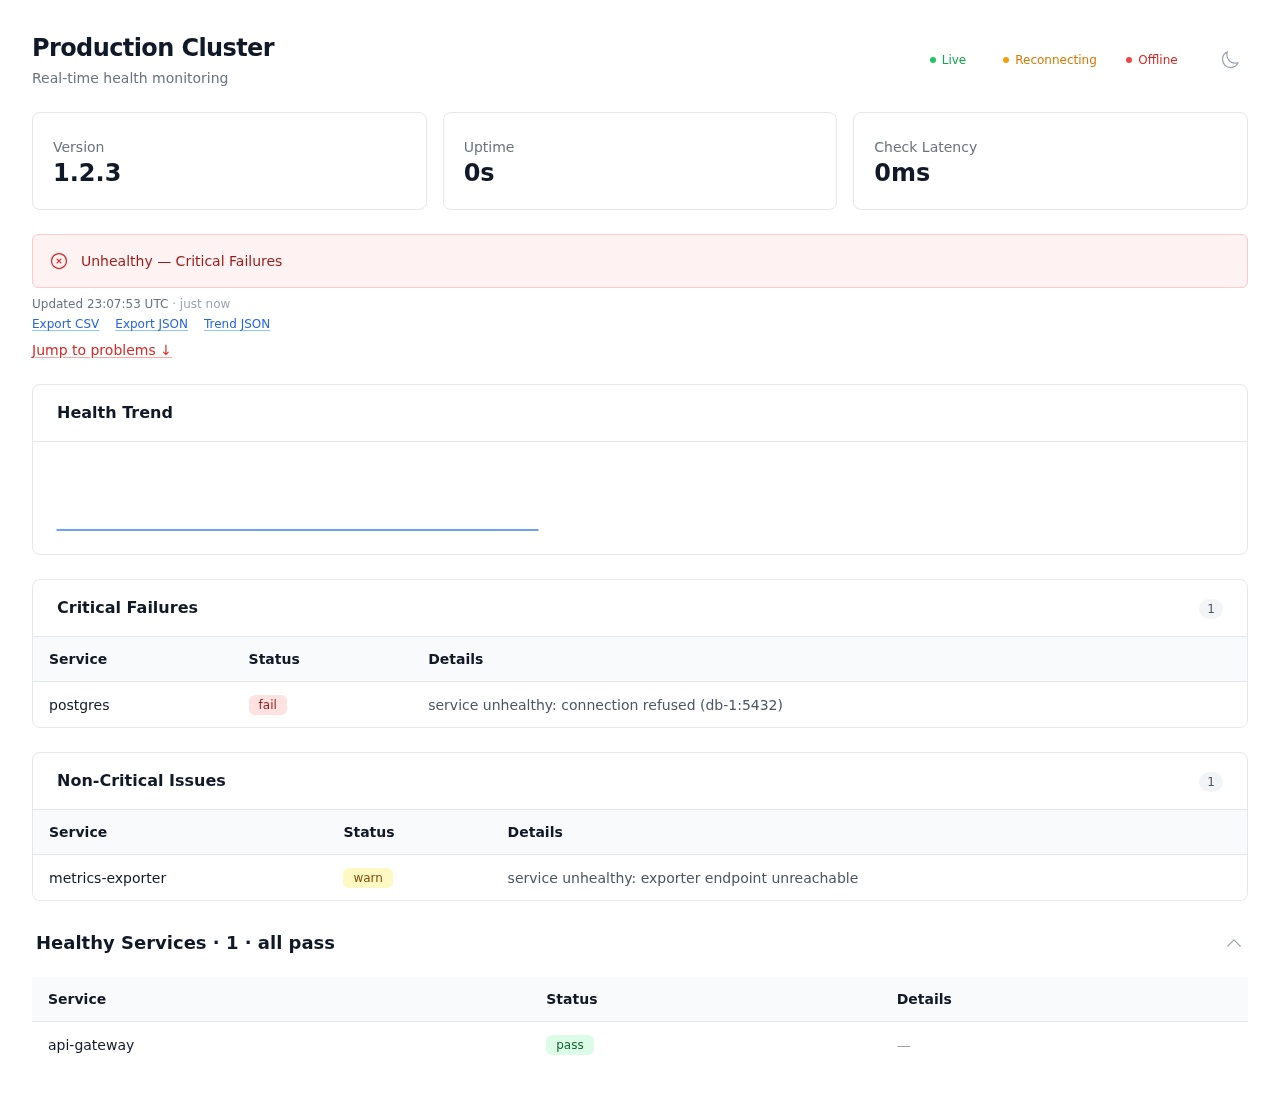
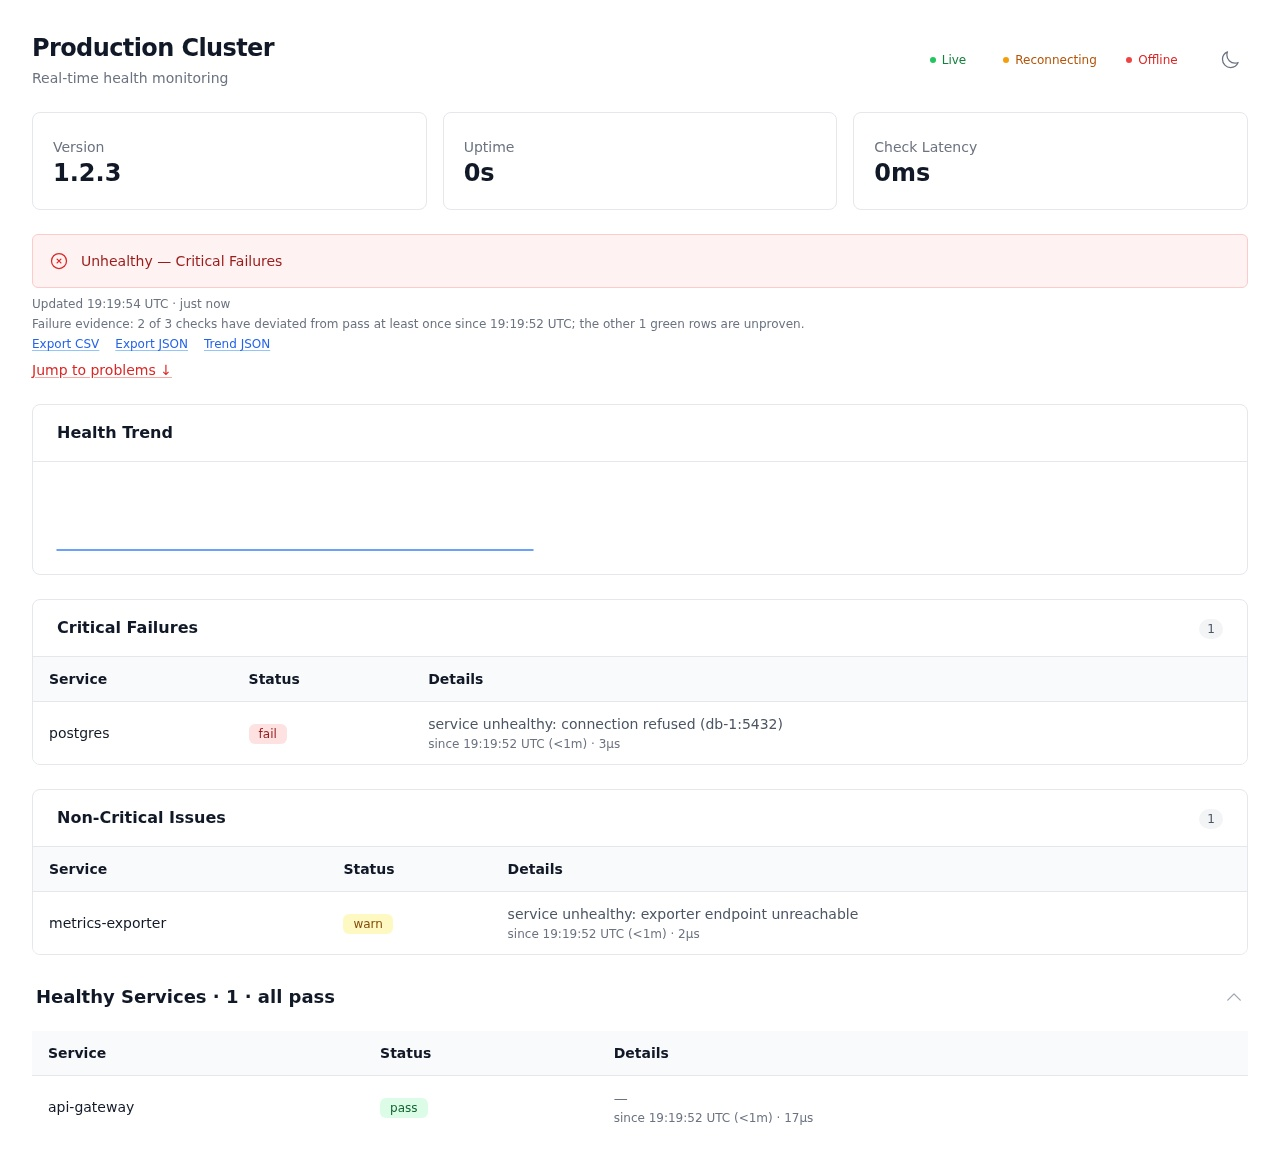
chore: auto-commit 2 changed file(s) (heuristic)

diff --git a/AGENTS.md b/AGENTS.md
@@ -114,7 +114,8 @@ layout) and `docs/adr/0002-error-sentinel-family.md` (pusher-state sentinels).
 - **SSE reconnection via retry field** — `WithRetryInterval(d)` sets the SSE `retry` field on every event, telling the browser how long to wait before reconnecting. The handler always sends current state on connect, so reconnecting clients immediately see the latest health — no event replay needed.
 - **Sub-path mounting via WithBasePath** — `WithBasePath("/admin")` prefixes all routes in `Config.Routes`. Combined with `RegisterRoutes(mux)` reading from `Config`, this ensures the HTML-referenced SSE URL always matches the registered handler.
 - **`LastUpdatedTime`/age is HTML-only by design** — the JSON health response stays byte-stable with go-health's own probe handlers (kubelets and scrapers diff payloads); freshness rides the trend/export endpoints instead. Revisit only if a JSON consumer asks for it.
-- **Greens are observations, not verification (evidence strip)** — per the health-washing thesis (samber-linter README §1: a dashboard's value equals the fraction of its checks that can actually fail), `evidenceLog` records per-check non-pass observations on every pusher tick (before change detection, like the trend ring), and the UI separates proven greens from unproven ones: a truth strip under the Updated stamp reports "X of N checks deviated from pass since <start>" (zero-proven is the explicit health-washing warning), and pass badges carry native `title` tooltips (unproven greens disclose, proven greens cite their last non-pass). The log cannot know WHY a check passes (go-health v0.2.0 added `Check.Since`/`DurationNanos`, but a Check still carries no failure reason beyond `Error`) — it claims only what is observable. Window = pusher lifetime (resets on restart, stated in the tooltip); zero `Since` (pusher not started) renders neither strip nor tooltips; proven counts intersect with the CURRENT response's checks so removed checks can't inflate the ratio; capped at `maxEvidenceChecks` names. HTML-only — the JSON/webhook/metrics contracts are untouched; evidence counts are non-identifying so public mode keeps them.
+- **Export is the one dashboard-owned wire shape that may grow** — the `/health` JSON contract stays go-health-shaped (bullet above), but `/health/export` JSON is dashboard-owned: the payload carries the trend `samples` plus a per-check `checks` object (`since` RFC3339, `duration_ns`, omitted when unknown). CSV/NDJSON stay per-sample (per-sample rows have no check-level column). Extend export freely; never extend `/health`.
+- **Greens are observations, not verification (evidence strip)** — per the health-washing thesis (samber-linter README §1: a dashboard's value equals the fraction of its checks that can actually fail), `evidenceLog` records per-check non-pass observations on every pusher tick (before change detection, like the trend ring), and the UI separates proven greens from unproven ones: a truth strip under the Updated stamp reports "X of N checks deviated from pass since <start>" (zero-proven is the explicit health-washing warning), and pass badges carry native `title` tooltips (unproven greens disclose, proven greens cite their last non-pass and the probe-side `Check.Since` state-entry stamp). The log cannot know WHY a check passes (go-health v0.2.0 added `Check.Since`/`DurationNanos`, but a Check still carries no failure reason beyond `Error`) — it claims only what is observable. Window = pusher lifetime (resets on restart, stated in the tooltip); zero `Since` (pusher not started) renders neither strip nor tooltips; proven counts intersect with the CURRENT response's checks so removed checks can't inflate the ratio; capped at `maxEvidenceChecks` names. HTML-only — the JSON/webhook/metrics contracts are untouched; evidence counts are non-identifying so public mode keeps them.
 - **Per-check metadata is derived once per build (go-health v0.2.0)** — `buildViewModelAt` (injected clock) stamps `SinceText`/`DurationText` onto rows so HTML and SSE patches agree and golden files pin the clock instead of time-bombing; the row since-age, like the Updated stamp, only refreshes when a patch actually broadcasts. The metadata line renders for ANY status (a green "since" is as honest as a red one); public mode keeps it — timestamps and durations are non-identifying.
 - **samber/do lifecycle integration** — `Dashboard` implements `do.HealthcheckerWithContext` and `do.Shutdowner` (compile-time asserted). `Register(injector, probe, opts...)` stores it via `do.ProvideValue`, so consumers with an injector get `do.Shutdown`/`do.HealthCheck` cascades for free.
 
@@ -179,6 +180,15 @@ layout) and `docs/adr/0002-error-sentinel-family.md` (pusher-state sentinels).
   Copy it for new `DEMO_*` toggles and for library code absorbing example
   logic.
 - **go-health marks non-critical failing checks `warn`, not `fail`** — only critical services produce `fail` per-check statuses (and overall fail). `setupDashboardWithFailures` yields cache/queue `warn` checks with overall `warn`; metrics tests assert accordingly.
+- **Parallel-session handshake (2026-09-17: two sessions, one tree)** —
+  before ANY write: `git log --oneline -10`, `ls docs/status/ | tail`,
+  `git status`. The newest file in `docs/status/` is another session's
+  handoff: it lists what they landed (cross it off, don't redo it) and
+  what they left. This repo routinely runs TWO agent sessions plus the
+  auto-daemon. Concurrency also means gate results go stale: re-run gates
+  on the tip immediately before pushing, and expect `nix run .#build`'s
+  templ regeneration to be swept into a daemon commit — run `nix fmt` and
+  commit the canonical formatting yourself if it lands raw.
 - **Release discipline (all four bit or paid off during the v0.7.0 cut)** —
   (0) **Commit beats the daemon — verify batch → commit immediately.** The
   auto-daemon commits continuously and NEVER pushes: master can sit
